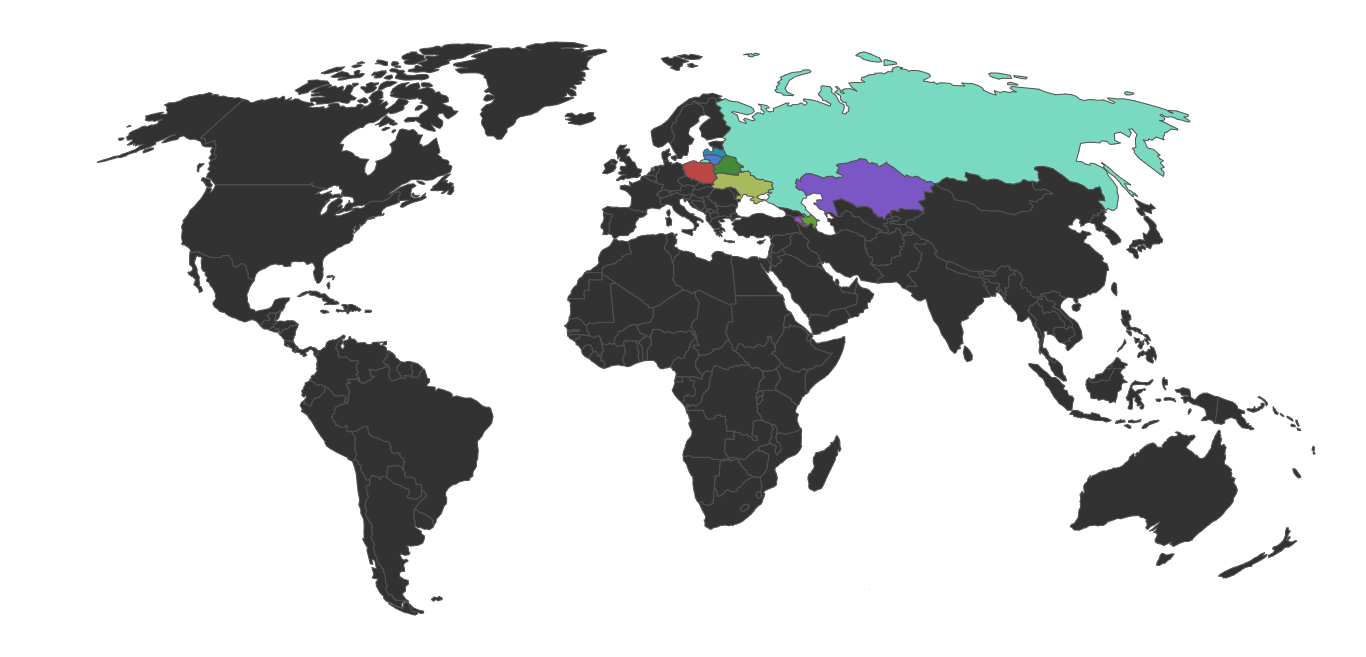
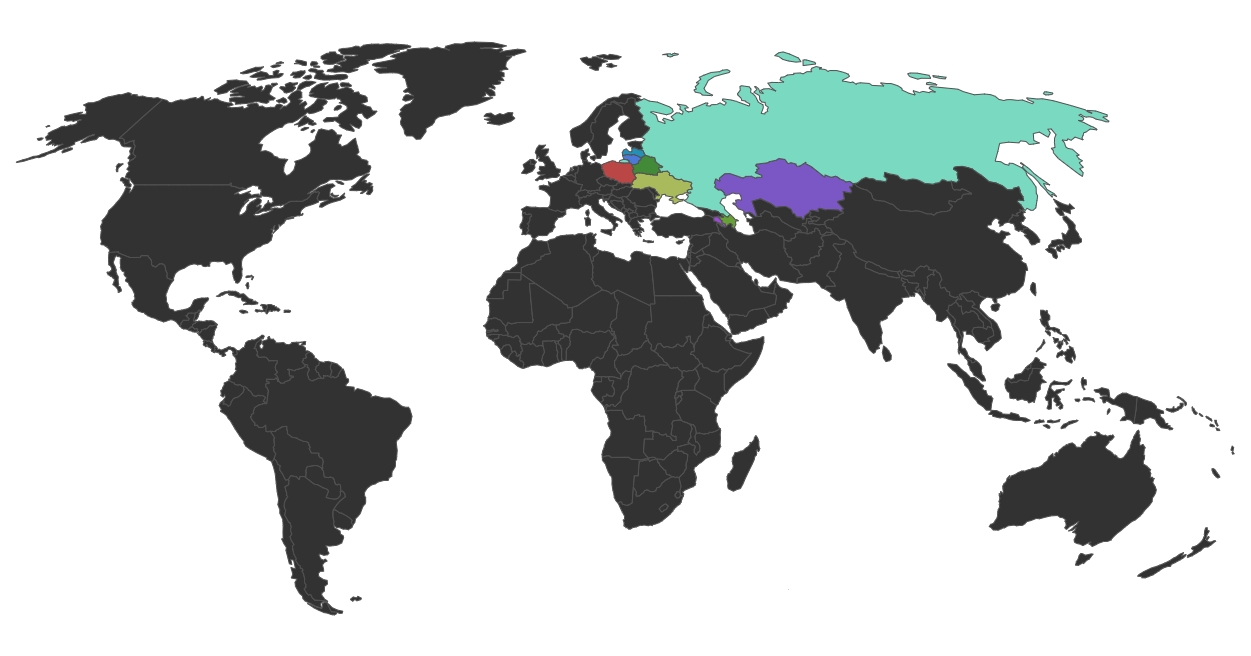
фикс

diff --git a/sass/style.scss b/sass/style.scss
@@ -184,6 +184,8 @@ ul.menu{
             justify-content: center;
             img{
                 max-height: 400px;
+                max-width: 762.8px;
+                width: 100%;
             }
         }
         .view-modal{
@@ -213,15 +215,15 @@ ul.menu{
 }
 @media (max-width: 1054px){
     .main-block{
-        padding: 0 10px;
         .text{
+            padding: 0 10px;
             justify-content: center;
         }
         .world-view{
             justify-content: center;
             .world-img{
-                img{
                     width: 100%;
+                img{
                 }
             }
             .view-modal{
@@ -236,7 +238,6 @@ ul.menu{
 }
 @media (max-width: 930px){
     .main-block{
-        padding: 0 10px;
         .text{
             justify-content: center;
             h1{
@@ -305,6 +306,7 @@ ul.menu{
             padding: 0.5em;
             text-transform: uppercase;
             input{
+                margin-top: 10px;
                 color: #262626;
                 border: none;
                 padding: 10px 20px 10px 20px;
@@ -325,6 +327,19 @@ ul.menu{
                     outline: none;
                 }
             }
+        }
+    }
+}
+@media (max-width: 420px){
+    .diagonal-box {
+        .content {
+            padding: 24px 5px;
+            h1 {
+                font-size: 30px;
+            }
+        }
+        .intro{
+            padding: 10px 5px;
         }
     }
 }

diff --git a/css/style.css b/css/style.css
@@ -192,6 +192,8 @@ ul.menu .menu-block li a:hover {
 }
 .main-block .world-view .world-img img {
   max-height: 400px;
+  max-width: 762.8px;
+  width: 100%;
 }
 .main-block .world-view .view-modal {
   display: flex;
@@ -218,16 +220,14 @@ ul.menu .menu-block li a:hover {
 }
 
 @media (max-width: 1054px) {
-  .main-block {
-    padding: 0 10px;
-  }
   .main-block .text {
+    padding: 0 10px;
     justify-content: center;
   }
   .main-block .world-view {
     justify-content: center;
   }
-  .main-block .world-view .world-img img {
+  .main-block .world-view .world-img {
     width: 100%;
   }
   .main-block .world-view .view-modal {
@@ -239,9 +239,6 @@ ul.menu .menu-block li a:hover {
   }
 }
 @media (max-width: 930px) {
-  .main-block {
-    padding: 0 10px;
-  }
   .main-block .text {
     justify-content: center;
   }
@@ -314,6 +311,7 @@ ul.menu .menu-block li a:hover {
   text-transform: uppercase;
 }
 .diagonal-box .content .intro input {
+  margin-top: 10px;
   color: #262626;
   border: none;
   padding: 10px 20px 10px 20px;
@@ -335,6 +333,17 @@ ul.menu .menu-block li a:hover {
   outline: none;
 }
 
+@media (max-width: 420px) {
+  .diagonal-box .content {
+    padding: 24px 5px;
+  }
+  .diagonal-box .content h1 {
+    font-size: 30px;
+  }
+  .diagonal-box .intro {
+    padding: 10px 5px;
+  }
+}
 .about {
   display: flex;
   flex-direction: column;
